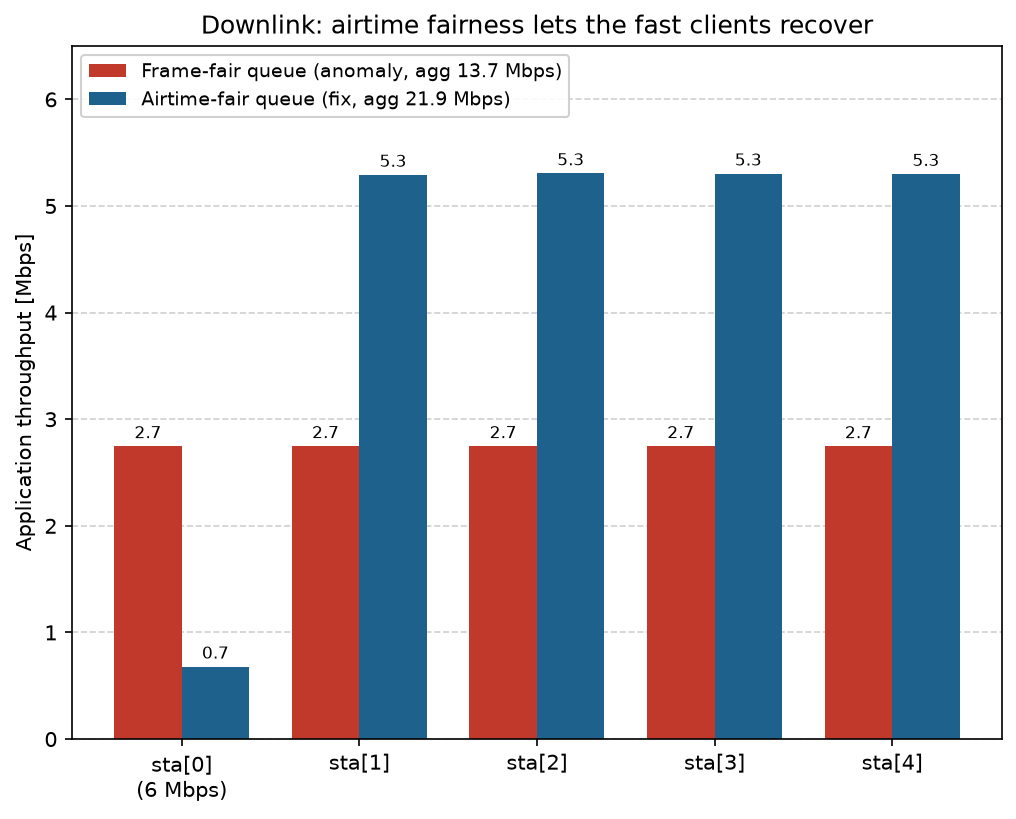
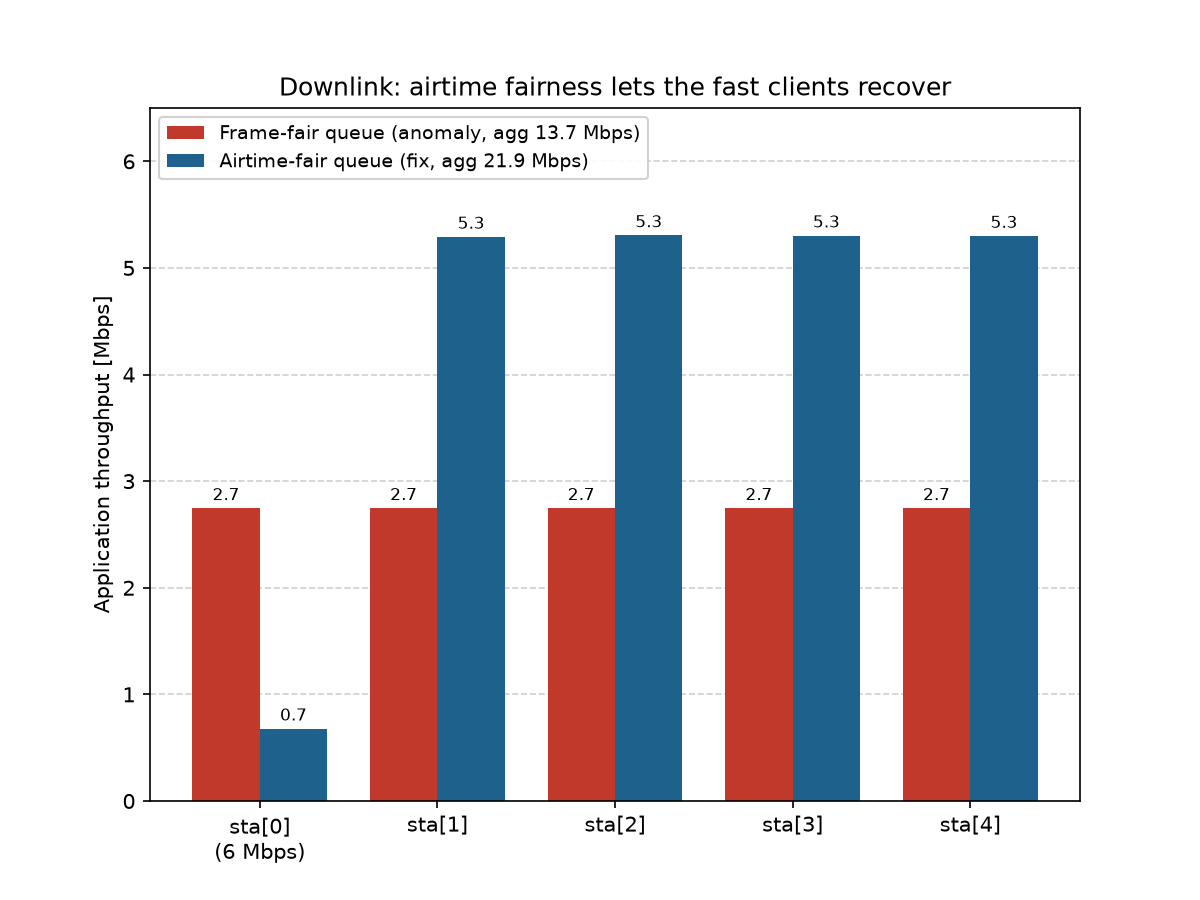
showcases/wireless/rateanomaly: fix two design-review findings (code overflow, chart sizes)
- Shorten the three over-long [Config] description strings (RateAnomaly, DownlinkAnomaly,
  DownlinkAirtimeFair) that ran past the ~99-char doc code column and got clipped in the
  literalinclude blocks; all config lines now fit (longest remaining is the real 99-char
  dataFrameBitratePerReceiver line).
- Drop bbox_inches="tight" from dl-chart.py and txop-chart.py so both export at a fixed
  1200x900 like the three .anf charts (they were 1016-1029x819), giving consistent on-page
  font sizes across all five data charts. Data unchanged.

diff --git a/showcases/wireless/rateanomaly/dl-chart.py b/showcases/wireless/rateanomaly/dl-chart.py
@@ -42,6 +42,6 @@ ax.grid(True, axis="y", linestyle="--", alpha=0.6)
 ax.set_axisbelow(True)
 ax.set_ylim(0, 6.5)
 ax.legend(loc="upper left", framealpha=0.9, fontsize=9)
-plt.savefig("doc/media/downlink-throughput.png", dpi=150, bbox_inches="tight", transparent=True)
+plt.savefig("doc/media/downlink-throughput.png", dpi=150, transparent=True)
 print("saved doc/media/downlink-throughput.png  anomaly=%s  fair=%s" % (
     [round(v, 2) for v in anomaly], [round(v, 2) for v in fair]))

diff --git a/showcases/wireless/rateanomaly/txop-chart.py b/showcases/wireless/rateanomaly/txop-chart.py
@@ -51,5 +51,5 @@ plt.ylim(0, 30)
 plt.grid(True, linestyle="--", alpha=0.6)
 plt.gca().set_axisbelow(True)
 plt.legend(loc="center right", framealpha=0.9, fontsize=9)
-plt.savefig("doc/media/txop-throughput-vs-rate.png", dpi=150, bbox_inches="tight", transparent=True)
+plt.savefig("doc/media/txop-throughput-vs-rate.png", dpi=150, transparent=True)
 print("saved doc/media/txop-throughput-vs-rate.png")
